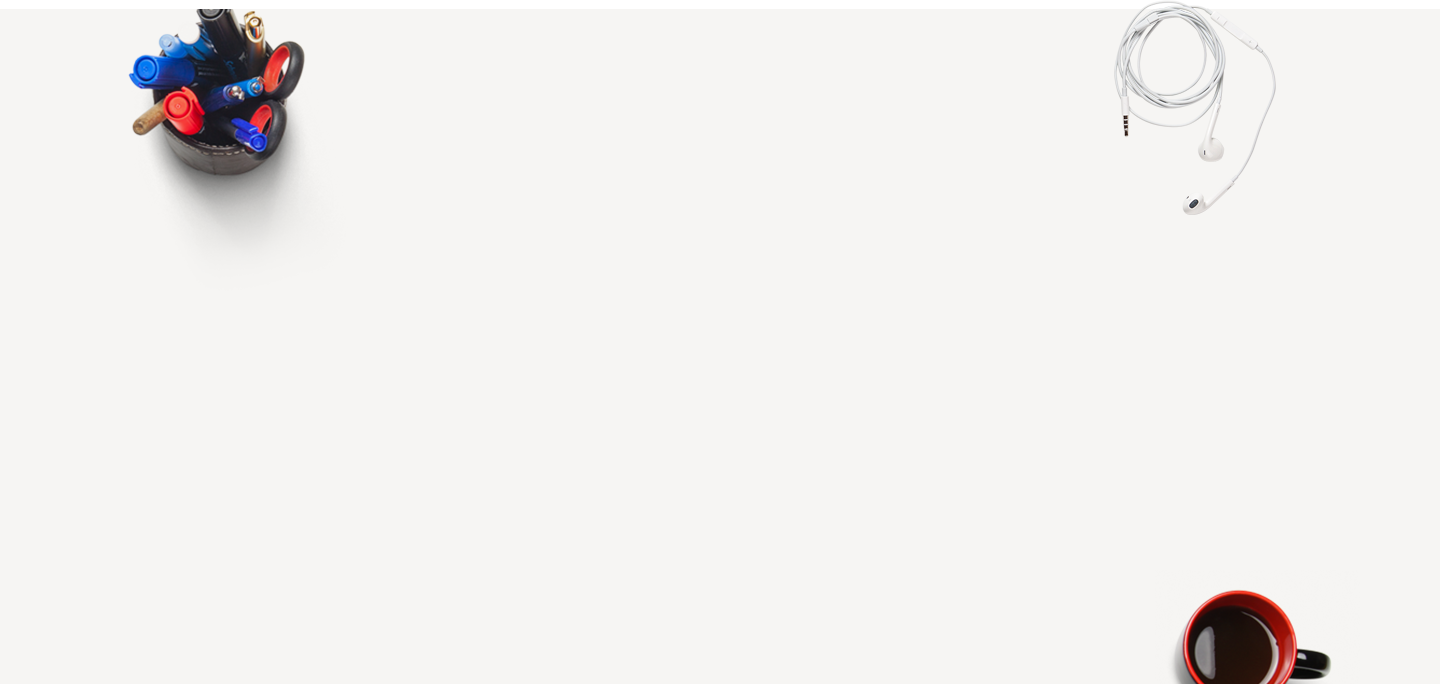
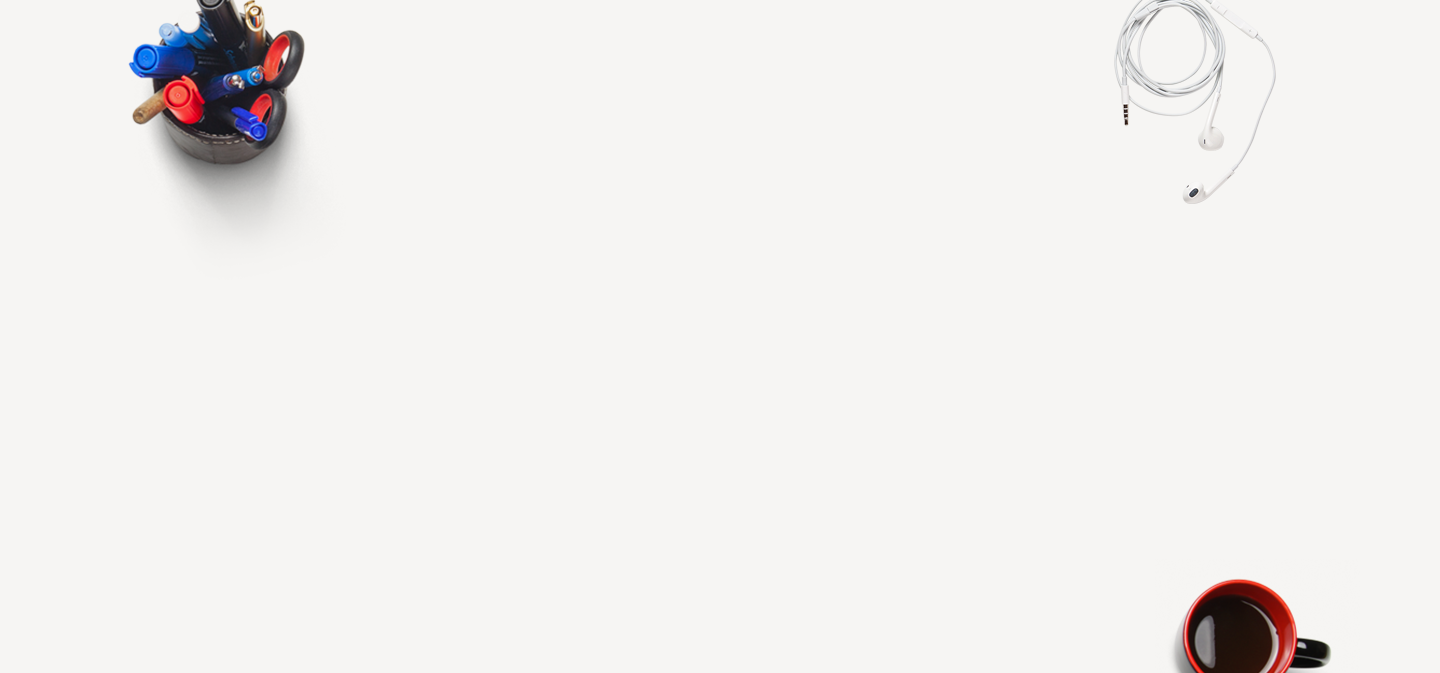
Секция descr выполнена

diff --git a/index.html b/index.html
@@ -70,7 +70,9 @@
 
                 <div class="row mt-5">
                     <div class="col-lg-4">
-                        <img src="img/picture.png" alt="picture">
+                        <div class="img_wrapper">
+                            <img src="img/picture.png" alt="picture">
+                        </div>
                         <h5>Some awesone features</h5>
                         <div class="text_wrapper">
                             <p>Donec sed odio dui. Aenean lacinia bibendum nulla sed consectetur. Nulla vitae elit libero, a
@@ -79,7 +81,9 @@
                         </div>
                     </div>
                     <div class="col-lg-4">
-                        <img src="img/airplane.png" alt="picture">
+                        <div class="img_wrapper">
+                            <img src="img/airplane.png" alt="picture">
+                        </div>
                         <h5>Some awesone features</h5>
                         <div class="text_wrapper">
                             <p>Donec sed odio dui. Aenean lacinia bibendum nulla sed consectetur. Nulla vitae elit libero, a
@@ -88,7 +92,9 @@
                         </div>
                     </div>
                     <div class="col-lg-4">
-                        <img src="img/bulb.png" alt="picture">
+                        <div class="img_wrapper">
+                            <img src="img/bulb.png" alt="picture">
+                        </div>
                         <h5>Some awesone features</h5>
                         <div class="text_wrapper">
                             <p>Donec sed odio dui. Aenean lacinia bibendum nulla sed consectetur. Nulla vitae elit libero, a
@@ -103,19 +109,27 @@
 
     <section class="descr">
         <div class="container">
-            <div class="row">
-                <div class="col-lg-5">
-                    <img src="" alt="">
-                </div>
-                <div class="col-lg-7">
-                    <small>NEW DESIGN</small>
-                    <h2>Responsive design, just
-                        <br> need your tap
-                        <span>....</span>
-                    </h2>
-                    <p>Aenean eu leo quam. Pellentesque ornare sem lacinia quam venenatis vestibulum. Donec id elit non mi porta
-                        gravida at eget metus. Curabitur blandit tempus porttitor. Etiasem malesuada magn. Vestibulum felis
-                        euismod semper.</p>
+            <div class="content">
+                <div class="row">
+                    <div class="col-lg-5">
+                        <div class="wrapper">
+                            <img src="img/macbook.png" alt="picture">
+                        </div>
+                    </div>
+                    <div class="col-lg-7">
+                        <div class="red_text ">
+                            <span>NEW FEATURES</span>
+                        </div>
+                        <h2>Responsive design, just
+                            <br> need your tap
+                            <span>....</span>
+                        </h2>
+                        <div class="text_wrapper">
+                            <p>Aenean eu leo quam. Pellentesque ornare sem lacinia quam venenatis vestibulum. Donec id elit
+                                non mi porta gravida at eget metus. Curabitur blandit tempus porttitor. Etiasem malesuada
+                                magn. Vestibulum felis euismod semper.</p>
+                        </div>
+                    </div>
                 </div>
             </div>
         </div>

diff --git a/css/style.css b/css/style.css
@@ -23,6 +23,10 @@ h2 {
   margin-top: 3rem;
   line-height: 26px; }
 
+img {
+  width: 100%;
+  height: auto; }
+
 header {
   background-image: url("../img/bg_header.jpg");
   background-repeat: no-repeat;
@@ -62,9 +66,23 @@ header {
   background-repeat: no-repeat; }
   .features .content {
     padding: 130px 0; }
-    .features .content img {
-      margin: 23px 0; }
+    .features .content .img_wrapper {
+      width: 65px;
+      margin: 0 auto; }
+      .features .content .img_wrapper img {
+        margin: 23px 0; }
     .features .content .text_wrapper {
       margin-top: 20px; }
+
+.descr {
+  background-image: url("../img/descr_bg.jpg");
+  background-size: cover;
+  background-repeat: no-repeat; }
+  .descr .content {
+    padding: 100px 0; }
+    .descr .content span {
+      color: #fb8686; }
+    .descr .content .text_wrapper {
+      width: 31rem; }
 
 /*# sourceMappingURL=style.css.map */

diff --git a/scss/style.scss b/scss/style.scss
@@ -31,6 +31,11 @@ h2 {
     line-height: 26px;
 }
 
+img {
+    width: 100%;
+    height: auto;
+}
+
 header {
     background-image: url('../img/bg_header.jpg');
     background-repeat: no-repeat;
@@ -82,11 +87,30 @@ header {
     background-repeat: no-repeat;
     .content {
         padding: 130px 0;
-        img {
-            margin: 23px 0;
+        .img_wrapper {
+            width: 65px;
+            margin: 0 auto;
+            img {
+                margin: 23px 0;
+            }
         }
         .text_wrapper {
             margin-top: 20px;
+        }
+    }
+}
+
+.descr {
+    background-image: url('../img/descr_bg.jpg');
+    background-size: cover;
+    background-repeat: no-repeat;
+    .content {
+        padding: 100px 0;
+        span {
+            color: #fb8686;
+        }
+        .text_wrapper {
+            width: 31rem;
         }
     }
 }
